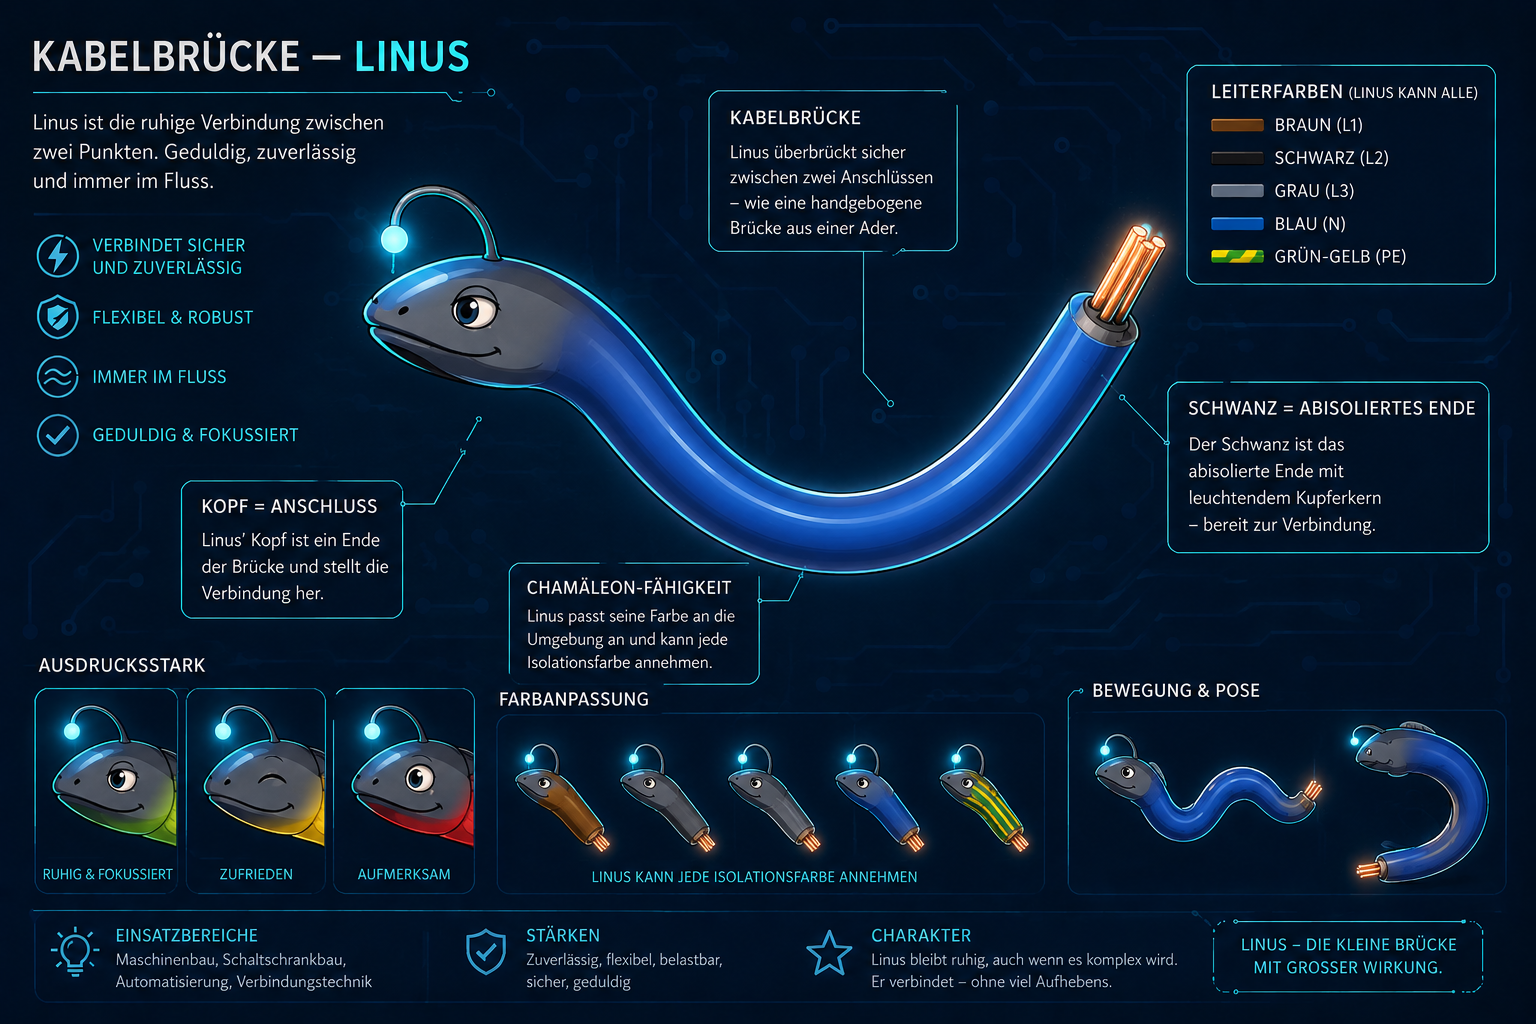
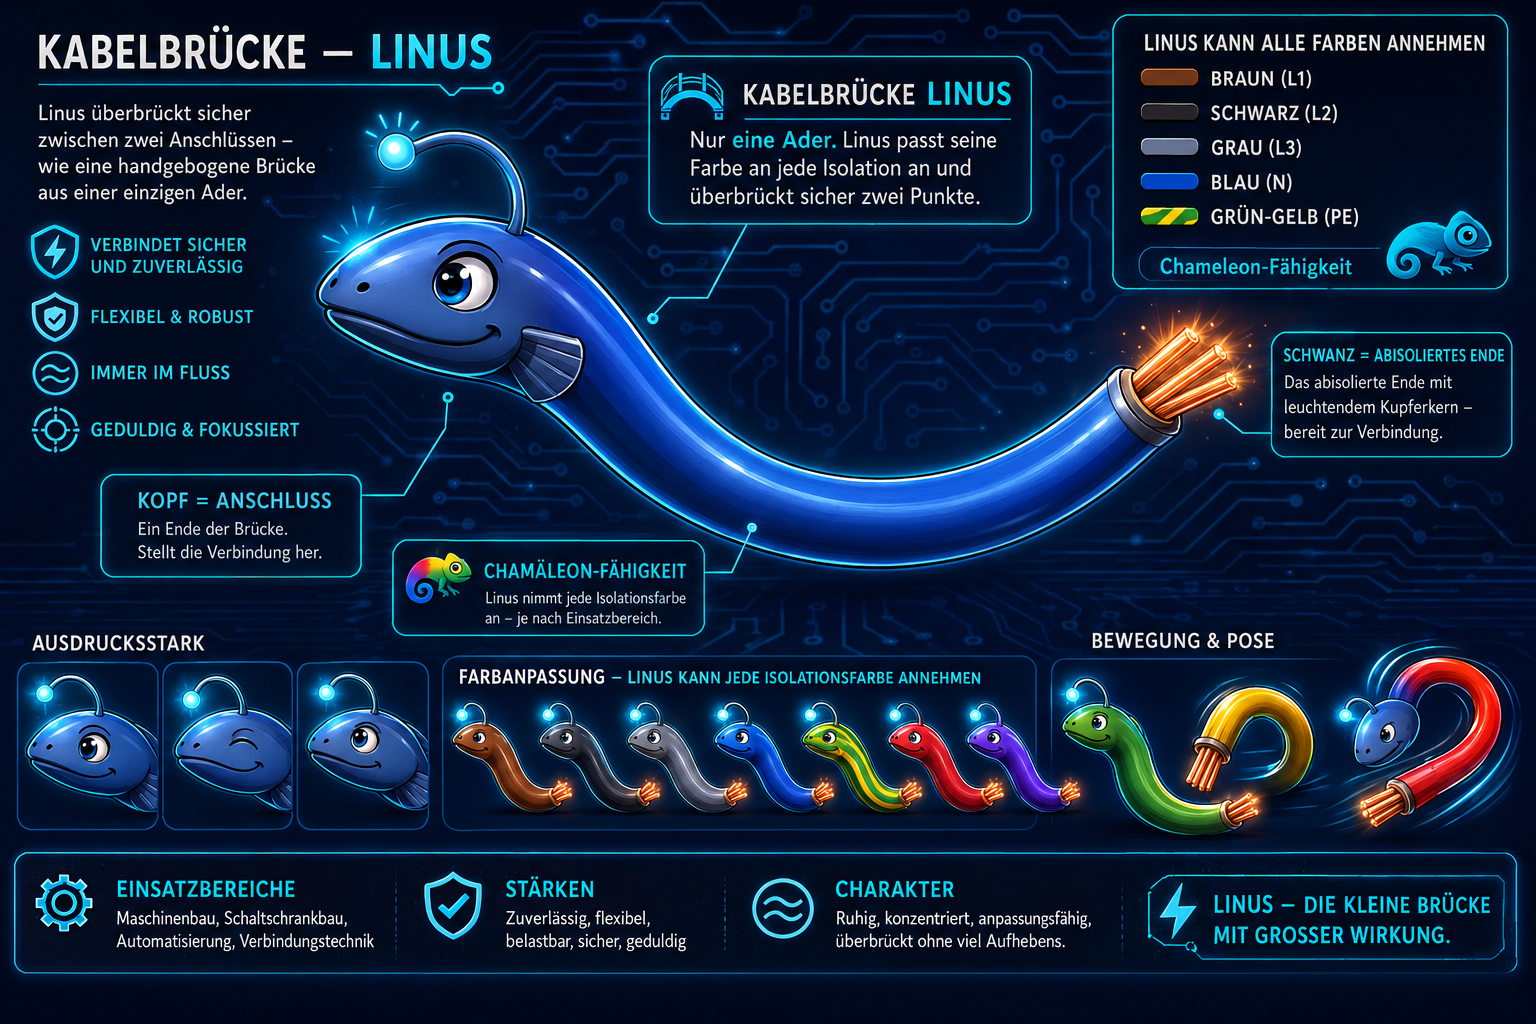
WIKI-BILDER-NEU-01: Wiki-Bilder fuer Linus (neu), Stoppius, Errinka und Fusia (2) eingebunden

diff --git a/tests/tst_migrationen.cpp b/tests/tst_migrationen.cpp
@@ -630,8 +630,9 @@ private slots:
 
     void test_19_wikiV16EntferntStroemlingBilder()
     {
-        // Wiki-Schema v16: Bilder von Brauno/Blaubertha/Linus werden nicht mehr eingesaet
-        // und in bestehenden Wikis (v15) samt BLOB-Datei entfernt.
+        // Wiki-Schema v16: Bilder von Brauno/Blaubertha werden nicht mehr eingesaet
+        // (Linus hat seit Okt 2026 ein neues Bild; die Assets liegen im Test-Binary nicht vor, das Einsaeen
+        // der neuen Bilder ist daher nur im App-Build pruefbar) und in bestehenden Wikis (v15) samt BLOB-Datei entfernt.
         const QString ordner = QDir::tempPath() + "/stroemling_test_wiki16_"
                              + QString::number(QDateTime::currentMSecsSinceEpoch());
         QVERIFY(QDir().mkpath(ordner));
@@ -642,7 +643,7 @@ private slots:
             QSqlDatabase w = QSqlDatabase::database("stroemling_wiki");
             QSqlQuery q(w);
             QVERIFY(q.exec("SELECT COUNT(*) FROM wiki_bild wb JOIN wiki_artikel wa ON wa.id=wb.artikel_id "
-                           "WHERE wa.titel LIKE 'Brauno %' OR wa.titel LIKE 'Blaubertha %' OR wa.titel LIKE 'Linus %'") && q.next());
+                           "WHERE wa.titel LIKE 'Brauno %' OR wa.titel LIKE 'Blaubertha %'") && q.next());
             QCOMPARE(q.value(0).toInt(), 0);
             // Altbestand simulieren: Bild + BLOB fuer Brauno, Version zurueck auf 15
             QVERIFY(q.exec("INSERT INTO wiki_bild (artikel_id, dateiname, mime_typ, blob_pfad, sortierung) "
